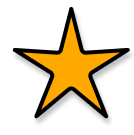
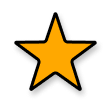
style: 스티커 이미지 업데이트

Changed region(s): [[0.0818, 0.027, 0.9818, 0.9189]]

diff --git a/src/pages/index/Stickers/Stickers.js b/src/pages/index/Stickers/Stickers.js
@@ -5,46 +5,51 @@ import Sticker from "../../../components/sticker/sticker"
 import gitHubNormalImg from "../../../images/stickers/githubSticker_normal.png"
 import gitHubClickImg from "../../../images/stickers/githubSticker_click.png"
 import gitHubHoverImg from "../../../images/stickers/githubSticker_hover.png"
+
 import NameNormalImg from "../../../images/stickers/NameSticker_normal.png"
 import NameHoverImg from "../../../images/stickers/NameSticker_hover.png"
 import NameClickImg from "../../../images/stickers/NameSticker_click.png"
+
 import starNormalImg from "../../../images/stickers/StarSticker_normal.png"
 import starHoverImg from "../../../images/stickers/StarSticker_hover.png"
 import starClickImg from "../../../images/stickers/StarSticker_click.png"
+
 import start2NormalImg from "../../../images/stickers/StarSticker_s_normal.png"
 import start2HoverImg from "../../../images/stickers/StarSticker_s_hover.png"
+import start2ClickImg from "../../../images/stickers/StarSticker_s_click.png"
+
+import main_doc from "../../../images/stickers/main_doc.png"
+import main_doc_hover from "../../../images/stickers/main_doc_hover.png"
+import main_doc_click from "../../../images/stickers/main_doc_click.png"
+
+import main_illust from "../../../images/stickers/main_illust.png"
+import main_illust_hover from "../../../images/stickers/main_illust_hover.png"
+import main_illust_click from "../../../images/stickers/main_illust_click.png"
+
+import star_white from "../../../images/stickers/star_white.png"
+import star_white_hover from "../../../images/stickers/star_white_hover.png"
+import star_white_click from "../../../images/stickers/star_white_click.png"
+
 const Stickers = () => (
   <>
-    <Sticker
-      normalImg={gitHubNormalImg}
-      hoverImg={gitHubHoverImg}
-      clickImg={gitHubClickImg}
-      alt={"gitHub"}
-      width={"140"}
-      height={"140"}
-      url={"https://github.com/Yenowme"}
-      positionTop={"50%"}
-      positionLeft={"76%"}
-      rotate={""}
-    />
     <Sticker
       normalImg={NameNormalImg}
       hoverImg={NameHoverImg}
       clickImg={NameClickImg}
       alt={"name"}
-      width="385"
-      height={"138"}
-      positionTop={"70%"}
-      positionLeft={"75%"}
-      rotate={"-18"}
+      width="453"
+      height={"162"}
+      positionTop={"-6%"}
+      positionLeft={"5%"}
+      rotate={"-22"}
     />
     <Sticker
       normalImg={start2NormalImg}
       hoverImg={start2HoverImg}
-      clickImg={start2HoverImg}
+      clickImg={start2ClickImg}
       alt={"star2"}
-      width="135"
-      height={"135"}
+      width="110"
+      height={"110"}
       positionLeft={"65%"}
       positionTop={"62%"}
       rotate="-15"
@@ -52,12 +57,12 @@ const Stickers = () => (
     <Sticker
       normalImg={start2NormalImg}
       hoverImg={start2HoverImg}
-      clickImg={start2HoverImg}
+      clickImg={start2ClickImg}
       alt={"star2"}
       width="100"
       height={"100"}
-      positionLeft={"10%"}
-      positionTop={"46%"}
+      positionLeft={"0%"}
+      positionTop={"40%"}
       rotate="-10"
     />
     <Sticker
@@ -65,10 +70,56 @@ const Stickers = () => (
       hoverImg={starHoverImg}
       clickImg={starClickImg}
       alt={"start1"}
-      width="135"
-      height={"135"}
+      width="140"
+      height={"140"}
+      positionLeft={"70%"}
+      positionTop={"10%"}
+    />
+
+    <Sticker
+      normalImg={main_doc}
+      hoverImg={main_doc_hover}
+      clickImg={main_doc_click}
+      alt={"main_doc"}
+      width="205"
+      height={"205"}
       positionLeft={"80%"}
-      positionTop={"30%"}
+      positionTop={"50%"}
+      rotate={"-90"}
+    />
+    <Sticker
+      normalImg={main_illust}
+      hoverImg={main_illust_hover}
+      clickImg={main_illust_click}
+      alt={"main_illust"}
+      width="180"
+      height={"180"}
+      positionLeft={"27%"}
+      positionTop={"0%"}
+      rotate={"13"}
+    />
+
+    <Sticker
+      normalImg={star_white}
+      hoverImg={star_white_hover}
+      clickImg={star_white_click}
+      alt={"star_white"}
+      width="90"
+      height={"90"}
+      positionLeft={"80%"}
+      positionTop={"10%"}
+    />
+    <Sticker
+      normalImg={gitHubNormalImg}
+      hoverImg={gitHubHoverImg}
+      clickImg={gitHubClickImg}
+      alt={"gitHub"}
+      width={"176"}
+      height={"176"}
+      url={"https://github.com/Yenowme"}
+      positionTop={"65%"}
+      positionLeft={"73%"}
+      rotate={"3"}
     />
   </>
 )

diff --git a/gatsby-config.js b/gatsby-config.js
@@ -36,7 +36,7 @@ module.exports = {
         // https://css-tricks.com/meta-theme-color-and-trickery/
         // theme_color: `#663399`,
         display: `minimal-ui`,
-        icon: `src/images/StarSticker_normal.png`, // This path is relative to the root of the site.
+        icon: `src/images/stickers/StarSticker_normal.png`, // This path is relative to the root of the site.
       },
     },
     // this (optional) plugin enables Progressive Web App + Offline functionality

diff --git a/src/components/header/header.module.css b/src/components/header/header.module.css
@@ -7,6 +7,7 @@
 
 .head {
   position: sticky;
+  z-index: 90;
   top: 0px;
   display: flex;
   justify-content: space-between;
